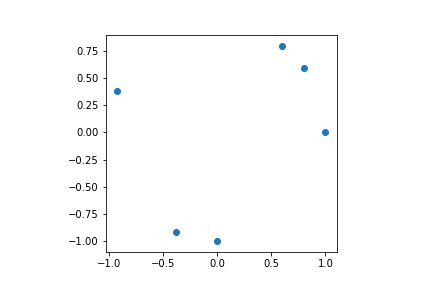
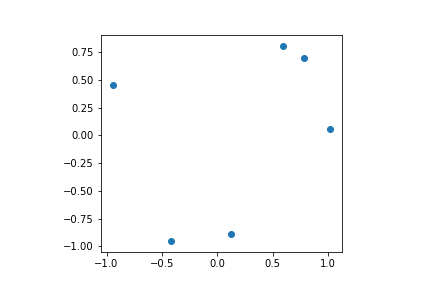
Noisy
Noise the data and give lowest num singular vectors instead of ones with eps cutoff

diff --git a/varietyFitter.py b/varietyFitter.py
@@ -5,6 +5,21 @@ import scipy
 import numpy as np
 from scipy import linalg, matrix
 
+def lowestEigenspaces(A,num=1):
+    u, s, vt = scipy.linalg.svd(A)
+    n = len(s)
+    # reverse the n first columns of u
+    u[:,:n] = u[:, n-1::-1]
+    # reverse s
+    s = s[::-1]
+    # reverse the n first rows of vt
+    vt[:n, :] = vt[n-1::-1, :]
+    #print(vt)
+    #print(vt[0:num])
+    #print(vt[0:num,:])
+    null_space = vt[0:num]
+    return scipy.transpose(null_space)
+
 def null(A,eps=1e-9):
     u, s, vh = scipy.linalg.svd(A)
     padding = max(0,np.shape(A)[1]-np.shape(s)[0])
@@ -20,6 +35,9 @@ dataPoints = np.array([[1.0,0],
                         [0,-1],
                         ])
 
+#noise the data so no longer exactly a circle
+dataPoints = dataPoints + .05*np.random.randn(6,2)
+
 plt.scatter(dataPoints[:,0],dataPoints[:,1])
 plt.gca().set_aspect('equal')
 plt.savefig('circleTestCase.png')
@@ -29,9 +47,11 @@ poly= PolynomialFeatures(degree=2)
 monomials=poly.fit_transform(dataPoints)
 #print(monomials)
 
-defining_equation=null(monomials)
+# the .1 here is chosen to make the threshold instead of exact null space
+#defining_equation=null(monomials,.1)
+defining_equation=lowestEigenspaces(monomials)
 print(defining_equation)
 # it should be -1*1+0*x+0*y+1*x^2+0*xy+1*y^2 or something proportional
 
 #TODO: do same for other plane curves of higher degree to see how well it scales
-#TODO: noise the data so no longer exactly null space, idea randomly select subsets
+# in planeCurves.py
